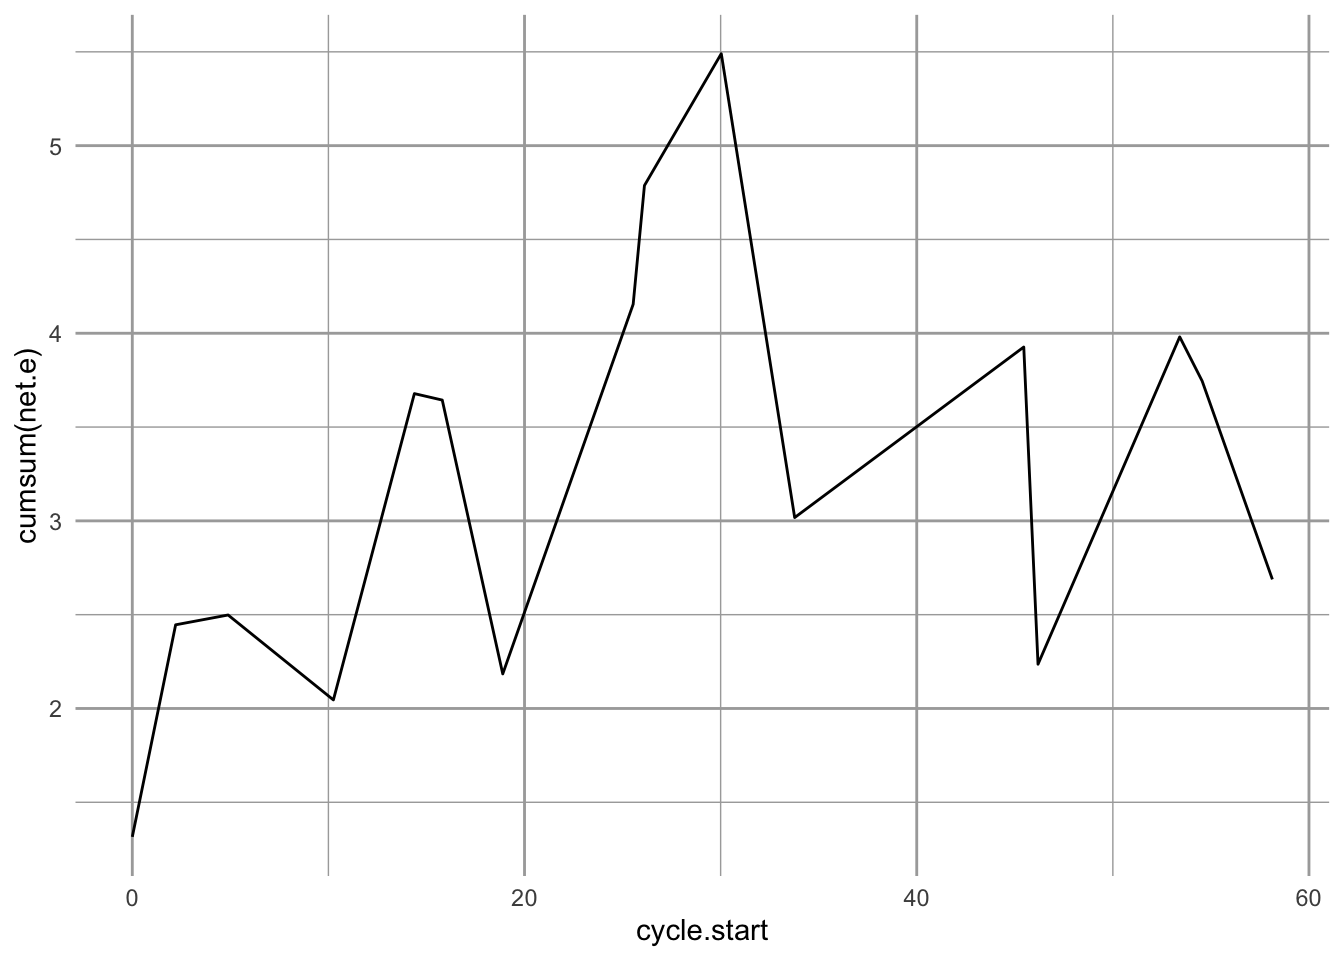
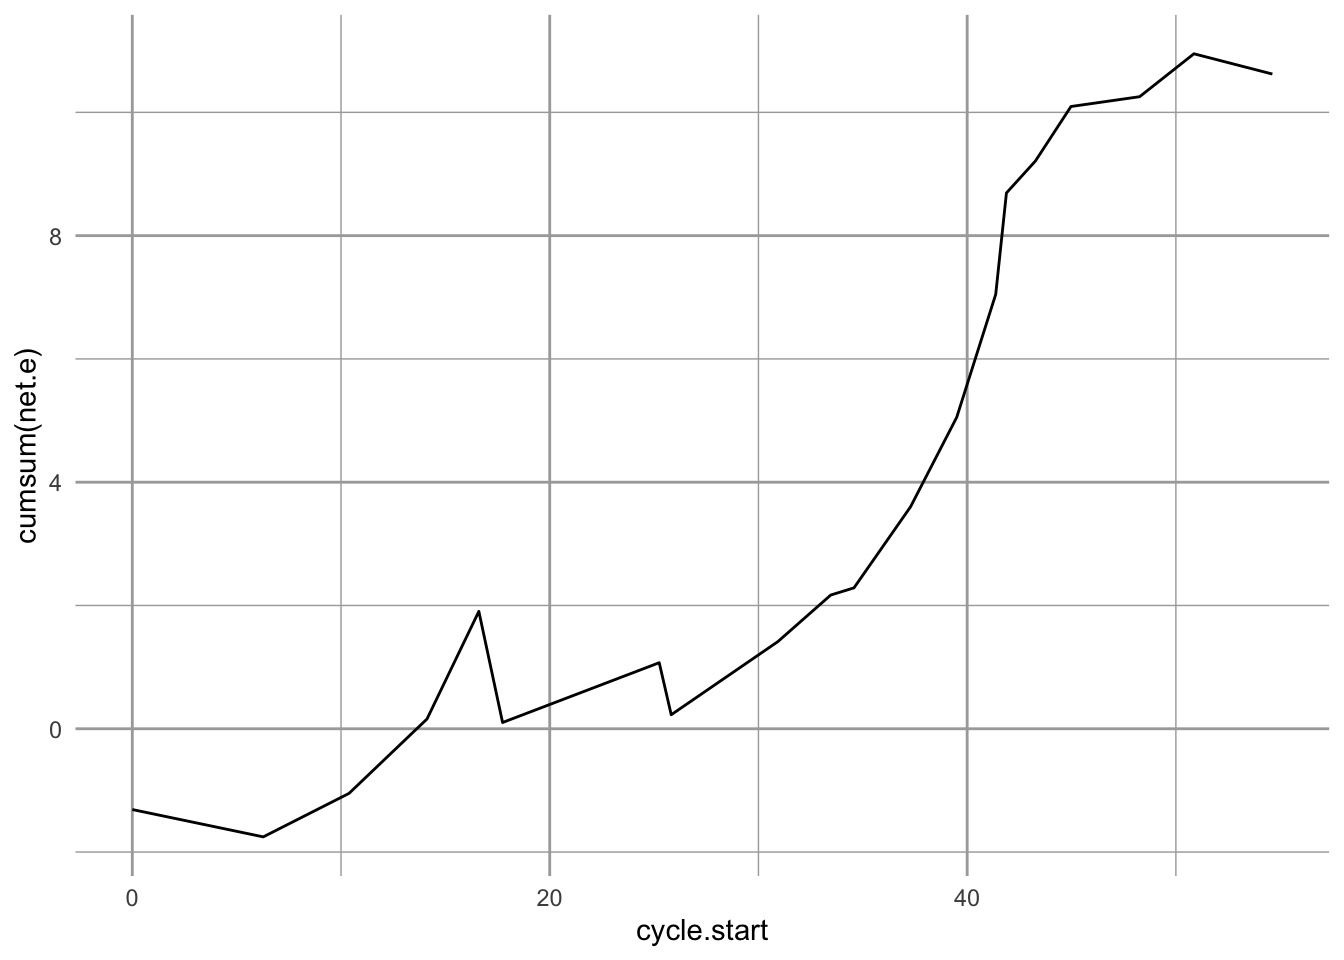
Mon am

diff --git a/docs/index.html b/docs/index.html
@@ -24,7 +24,7 @@
 <meta name="author" content="Hank Stevens" />
 
 
-<meta name="date" content="2020-08-30" />
+<meta name="date" content="2020-08-31" />
 
   <meta name="viewport" content="width=device-width, initial-scale=1" />
   <meta name="apple-mobile-web-app-capable" content="yes" />
@@ -53,6 +53,70 @@
 <script src="libs/accessible-code-block-0.0.1/empty-anchor.js"></script>
 
 
+<style type="text/css">
+code.sourceCode > span { display: inline-block; line-height: 1.25; }
+code.sourceCode > span { color: inherit; text-decoration: inherit; }
+code.sourceCode > span:empty { height: 1.2em; }
+.sourceCode { overflow: visible; }
+code.sourceCode { white-space: pre; position: relative; }
+pre.sourceCode { margin: 0; }
+@media screen {
+div.sourceCode { overflow: auto; }
+}
+@media print {
+code.sourceCode { white-space: pre-wrap; }
+code.sourceCode > span { text-indent: -5em; padding-left: 5em; }
+}
+pre.numberSource code
+  { counter-reset: source-line 0; }
+pre.numberSource code > span
+  { position: relative; left: -4em; counter-increment: source-line; }
+pre.numberSource code > span > a:first-child::before
+  { content: counter(source-line);
+    position: relative; left: -1em; text-align: right; vertical-align: baseline;
+    border: none; display: inline-block;
+    -webkit-touch-callout: none; -webkit-user-select: none;
+    -khtml-user-select: none; -moz-user-select: none;
+    -ms-user-select: none; user-select: none;
+    padding: 0 4px; width: 4em;
+    color: #aaaaaa;
+  }
+pre.numberSource { margin-left: 3em; border-left: 1px solid #aaaaaa;  padding-left: 4px; }
+div.sourceCode
+  {   }
+@media screen {
+code.sourceCode > span > a:first-child::before { text-decoration: underline; }
+}
+code span.al { color: #ff0000; font-weight: bold; } /* Alert */
+code span.an { color: #60a0b0; font-weight: bold; font-style: italic; } /* Annotation */
+code span.at { color: #7d9029; } /* Attribute */
+code span.bn { color: #40a070; } /* BaseN */
+code span.bu { } /* BuiltIn */
+code span.cf { color: #007020; font-weight: bold; } /* ControlFlow */
+code span.ch { color: #4070a0; } /* Char */
+code span.cn { color: #880000; } /* Constant */
+code span.co { color: #60a0b0; font-style: italic; } /* Comment */
+code span.cv { color: #60a0b0; font-weight: bold; font-style: italic; } /* CommentVar */
+code span.do { color: #ba2121; font-style: italic; } /* Documentation */
+code span.dt { color: #902000; } /* DataType */
+code span.dv { color: #40a070; } /* DecVal */
+code span.er { color: #ff0000; font-weight: bold; } /* Error */
+code span.ex { } /* Extension */
+code span.fl { color: #40a070; } /* Float */
+code span.fu { color: #06287e; } /* Function */
+code span.im { } /* Import */
+code span.in { color: #60a0b0; font-weight: bold; font-style: italic; } /* Information */
+code span.kw { color: #007020; font-weight: bold; } /* Keyword */
+code span.op { color: #666666; } /* Operator */
+code span.ot { color: #007020; } /* Other */
+code span.pp { color: #bc7a00; } /* Preprocessor */
+code span.sc { color: #4070a0; } /* SpecialChar */
+code span.ss { color: #bb6688; } /* SpecialString */
+code span.st { color: #4070a0; } /* String */
+code span.va { color: #19177c; } /* Variable */
+code span.vs { color: #4070a0; } /* VerbatimString */
+code span.wa { color: #60a0b0; font-weight: bold; font-style: italic; } /* Warning */
+</style>
 
 </head>
 
@@ -116,16 +180,15 @@
 <li class="chapter" data-level="4.6.1" data-path="DID.html"><a href="DID.html#eigenanalysis"><i class="fa fa-check"></i><b>4.6.1</b> Eigenanalysis</a></li>
 <li class="chapter" data-level="4.6.2" data-path="DID.html"><a href="DID.html#finite-rate-of-increase"><i class="fa fa-check"></i><b>4.6.2</b> Finite rate of increase</a></li>
 <li class="chapter" data-level="4.6.3" data-path="DID.html"><a href="DID.html#stable-stage-distribution"><i class="fa fa-check"></i><b>4.6.3</b> Stable stage distribution</a></li>
-<li class="chapter" data-level="4.6.4" data-path="DID.html"><a href="DID.html#calculating-the-stable-stage-distribution"><i class="fa fa-check"></i><b>4.6.4</b> Calculating the stable stage distribution</a></li>
-<li class="chapter" data-level="4.6.5" data-path="DID.html"><a href="DID.html#reproductive-value"><i class="fa fa-check"></i><b>4.6.5</b> Reproductive value</a></li>
-<li class="chapter" data-level="4.6.6" data-path="DID.html"><a href="DID.html#sensitivity-and-elasticity"><i class="fa fa-check"></i><b>4.6.6</b> Sensitivity and elasticity</a></li>
+<li class="chapter" data-level="4.6.4" data-path="DID.html"><a href="DID.html#reproductive-value"><i class="fa fa-check"></i><b>4.6.4</b> Reproductive value</a></li>
+<li class="chapter" data-level="4.6.5" data-path="DID.html"><a href="DID.html#sensitivity-and-elasticity"><i class="fa fa-check"></i><b>4.6.5</b> Sensitivity and elasticity</a></li>
 </ul></li>
 <li class="chapter" data-level="4.7" data-path="DID.html"><a href="DID.html#integral-projection"><i class="fa fa-check"></i><b>4.7</b> Integral projection</a><ul>
 <li class="chapter" data-level="4.7.1" data-path="DID.html"><a href="DID.html#a-size-based-ipm-of-smooth-coneflower"><i class="fa fa-check"></i><b>4.7.1</b> A size-based IPM of smooth coneflower</a></li>
+<li class="chapter" data-level="4.7.2" data-path="DID.html"><a href="DID.html#population-summaries"><i class="fa fa-check"></i><b>4.7.2</b> Population summaries</a></li>
 </ul></li>
-<li class="chapter" data-level="4.8" data-path="DID.html"><a href="DID.html#population-summaries"><i class="fa fa-check"></i><b>4.8</b> Population summaries</a></li>
-<li class="chapter" data-level="4.9" data-path="DID.html"><a href="DID.html#r-packges-for-demography"><i class="fa fa-check"></i><b>4.9</b> R packges for demography</a></li>
-<li class="chapter" data-level="4.10" data-path="DID.html"><a href="DID.html#exploring-a-real-population"><i class="fa fa-check"></i><b>4.10</b> Exploring a real population</a></li>
+<li class="chapter" data-level="4.8" data-path="DID.html"><a href="DID.html#r-packges-for-demography"><i class="fa fa-check"></i><b>4.8</b> R packges for demography</a></li>
+<li class="chapter" data-level="4.9" data-path="DID.html"><a href="DID.html#exploring-a-real-population"><i class="fa fa-check"></i><b>4.9</b> Exploring a real population</a></li>
 </ul></li>
 <li class="chapter" data-level="5" data-path="references.html"><a href="references.html"><i class="fa fa-check"></i><b>5</b> References</a></li>
 </ul>
@@ -148,7 +211,7 @@
 <div id="header">
 <h1 class="title">Primer of Ecology with R</h1>
 <p class="author"><em>Hank Stevens</em></p>
-<p class="date"><em>2020-08-30</em></p>
+<p class="date"><em>2020-08-31</em></p>
 </div>
 <div id="preface" class="section level1 unnumbered">
 <h1>Preface</h1>

diff --git a/docs/DID.html b/docs/DID.html
@@ -24,7 +24,7 @@
 <meta name="author" content="Hank Stevens" />
 
 
-<meta name="date" content="2020-08-30" />
+<meta name="date" content="2020-08-31" />
 
   <meta name="viewport" content="width=device-width, initial-scale=1" />
   <meta name="apple-mobile-web-app-capable" content="yes" />
@@ -185,10 +185,10 @@ code span.wa { color: #60a0b0; font-weight: bold; font-style: italic; } /* Warni
 </ul></li>
 <li class="chapter" data-level="4.7" data-path="DID.html"><a href="DID.html#integral-projection"><i class="fa fa-check"></i><b>4.7</b> Integral projection</a><ul>
 <li class="chapter" data-level="4.7.1" data-path="DID.html"><a href="DID.html#a-size-based-ipm-of-smooth-coneflower"><i class="fa fa-check"></i><b>4.7.1</b> A size-based IPM of smooth coneflower</a></li>
+<li class="chapter" data-level="4.7.2" data-path="DID.html"><a href="DID.html#population-summaries"><i class="fa fa-check"></i><b>4.7.2</b> Population summaries</a></li>
 </ul></li>
-<li class="chapter" data-level="4.8" data-path="DID.html"><a href="DID.html#population-summaries"><i class="fa fa-check"></i><b>4.8</b> Population summaries</a></li>
-<li class="chapter" data-level="4.9" data-path="DID.html"><a href="DID.html#r-packges-for-demography"><i class="fa fa-check"></i><b>4.9</b> R packges for demography</a></li>
-<li class="chapter" data-level="4.10" data-path="DID.html"><a href="DID.html#exploring-a-real-population"><i class="fa fa-check"></i><b>4.10</b> Exploring a real population</a></li>
+<li class="chapter" data-level="4.8" data-path="DID.html"><a href="DID.html#r-packges-for-demography"><i class="fa fa-check"></i><b>4.8</b> R packges for demography</a></li>
+<li class="chapter" data-level="4.9" data-path="DID.html"><a href="DID.html#exploring-a-real-population"><i class="fa fa-check"></i><b>4.9</b> Exploring a real population</a></li>
 </ul></li>
 <li class="chapter" data-level="5" data-path="references.html"><a href="references.html"><i class="fa fa-check"></i><b>5</b> References</a></li>
 </ul>
@@ -810,9 +810,8 @@ Figure 4.14: The component kernels G, S, and F, that make up the full demographi
 </p>
 </div>
 </div>
-</div>
-<div id="population-summaries" class="section level2">
-<h2><span class="header-section-number">4.8</span> Population summaries</h2>
+<div id="population-summaries" class="section level3">
+<h3><span class="header-section-number">4.7.2</span> Population summaries</h3>
 <p>Anything question that we could answer using matrices, we can answer using kernels.</p>
 <p>We estimate the finite rate of increase, <span class="math inline">\(\lambda\)</span>, the same way we did before.</p>
 <div class="sourceCode" id="cb131"><pre class="sourceCode r"><code class="sourceCode r"><span id="cb131-1"><a href="DID.html#cb131-1"></a>(<span class="dt">lambda=</span><span class="kw">Re</span>(<span class="kw">eigen</span>(K)<span class="op">$</span>values[<span class="dv">1</span>]))</span></code></pre></div>
@@ -843,14 +842,15 @@ Figure 4.15: Descriptions of smooth coneflower demographics.
 </p>
 </div>
 </div>
+</div>
 <div id="r-packges-for-demography" class="section level2">
-<h2><span class="header-section-number">4.9</span> R packges for demography</h2>
+<h2><span class="header-section-number">4.8</span> R packges for demography</h2>
 <p><span class="citation">Caswell (<a href="#ref-Caswell:2001gu" role="doc-biblioref">2001</a>)</span> is a definitive reference text for matrix models. <span class="citation">Ellner and Guckenheimer (<a href="#ref-Ellner:2006qe" role="doc-biblioref">2006</a>)</span> provides an excellent introduction, and I am sure there are many other excellent texts as well.</p>
 <p><span class="citation">Stubben and Milligan (<a href="#ref-Stubben:2007" role="doc-biblioref">2007</a>)</span> and <span class="citation">Stott, Hodgson, and Townley (<a href="#ref-Stott:2018" role="doc-biblioref">2018</a>)</span>, and <span class="citation">de la Cruz (<a href="#ref-delaCruz:2019" role="doc-biblioref">2019</a>)</span> provide R packages for stage-based matrix models with methods that go well beyond this text. In addition, there are several other packages for analyzing life tables and human demography.</p>
 <p><span class="citation">Ellner, Childs, and Rees (<a href="#ref-Ellner:2016aa" role="doc-biblioref">2016</a>)</span> is probably the best source for understanding IPMs. The R package IPMpack <span class="citation">(Metcalf et al. <a href="#ref-Metcalf:2014ab" role="doc-biblioref">2014</a>)</span> is an excellent package to implement and analyze IPMs.</p>
 </div>
 <div id="exploring-a-real-population" class="section level2">
-<h2><span class="header-section-number">4.10</span> Exploring a real population</h2>
+<h2><span class="header-section-number">4.9</span> Exploring a real population</h2>
 <p><span class="citation">Crouse, Crowder, and Caswell (<a href="#ref-Crouse1987" role="doc-biblioref">1987</a>)</span> performed a demographic analysis of an endangered sea turtle species, the loggerhead (<em>Caretta caretta</em>). Management of loggerhead populations seemed essential for their long term survival, and a popular management strategy had been and still is to protect nesting females, eggs, and hatchlings. The ground breaking work by Crouse<a href="#fn28" class="footnote-ref" id="fnref28"><sup>28</sup></a> and her colleagues compiled data to create a stage-based projection matrix to analyze quantitatively which stages are most important and least important in influencing long-term growth rate. This work led to US Federal laws requiring that US shrimp fishermen use nets that include Turtle Excluder Devices (TEDs, <a href="https://www.fisheries.noaa.gov/southeast/bycatch/turtle-excluder-device-regulations" class="uri">https://www.fisheries.noaa.gov/southeast/bycatch/turtle-excluder-device-regulations</a> ). Crouse et al. determined a transition matrix, <strong>A</strong>, for their loggerhead population:</p>
 <p><span class="math display">\[\begin{array}{c}
 H\\J_s\\J_l \\sub \\ B_1 \\B_2 \\ M

diff --git a/docs/oft.html b/docs/oft.html
@@ -24,7 +24,7 @@
 <meta name="author" content="Hank Stevens" />
 
 
-<meta name="date" content="2020-08-30" />
+<meta name="date" content="2020-08-31" />
 
   <meta name="viewport" content="width=device-width, initial-scale=1" />
   <meta name="apple-mobile-web-app-capable" content="yes" />
@@ -185,10 +185,10 @@ code span.wa { color: #60a0b0; font-weight: bold; font-style: italic; } /* Warni
 </ul></li>
 <li class="chapter" data-level="4.7" data-path="DID.html"><a href="DID.html#integral-projection"><i class="fa fa-check"></i><b>4.7</b> Integral projection</a><ul>
 <li class="chapter" data-level="4.7.1" data-path="DID.html"><a href="DID.html#a-size-based-ipm-of-smooth-coneflower"><i class="fa fa-check"></i><b>4.7.1</b> A size-based IPM of smooth coneflower</a></li>
+<li class="chapter" data-level="4.7.2" data-path="DID.html"><a href="DID.html#population-summaries"><i class="fa fa-check"></i><b>4.7.2</b> Population summaries</a></li>
 </ul></li>
-<li class="chapter" data-level="4.8" data-path="DID.html"><a href="DID.html#population-summaries"><i class="fa fa-check"></i><b>4.8</b> Population summaries</a></li>
-<li class="chapter" data-level="4.9" data-path="DID.html"><a href="DID.html#r-packges-for-demography"><i class="fa fa-check"></i><b>4.9</b> R packges for demography</a></li>
-<li class="chapter" data-level="4.10" data-path="DID.html"><a href="DID.html#exploring-a-real-population"><i class="fa fa-check"></i><b>4.10</b> Exploring a real population</a></li>
+<li class="chapter" data-level="4.8" data-path="DID.html"><a href="DID.html#r-packges-for-demography"><i class="fa fa-check"></i><b>4.8</b> R packges for demography</a></li>
+<li class="chapter" data-level="4.9" data-path="DID.html"><a href="DID.html#exploring-a-real-population"><i class="fa fa-check"></i><b>4.9</b> Exploring a real population</a></li>
 </ul></li>
 <li class="chapter" data-level="5" data-path="references.html"><a href="references.html"><i class="fa fa-check"></i><b>5</b> References</a></li>
 </ul>
@@ -438,12 +438,12 @@ Figure 2.5: Energy gain vs. time: The origin is when the forager enters the pat
 <div class="sourceCode" id="cb10"><pre class="sourceCode r"><code class="sourceCode r"><span id="cb10-1"><a href="oft.html#cb10-1"></a>myOut &lt;-<span class="st"> </span><span class="kw">optimal.forager</span>(<span class="dt">Total=</span><span class="dv">60</span>)</span>
 <span id="cb10-2"><a href="oft.html#cb10-2"></a><span class="kw">str</span>(myOut)</span></code></pre></div>
 <pre><code>## List of 5
-##  $ N     : num 16
-##  $ G     : num 2.69
-##  $ Tt    : num 63.8
-##  $ series:&#39;data.frame&#39;:	16 obs. of  2 variables:
-##   ..$ net.e      : num [1:16] 1.3156 1.1303 0.0523 -0.4527 1.6326 ...
-##   ..$ cycle.start: num [1:16] 0 2.21 4.89 10.25 14.39 ...
+##  $ N     : num 20
+##  $ G     : num 10.6
+##  $ Tt    : num 60.9
+##  $ series:&#39;data.frame&#39;:	20 obs. of  2 variables:
+##   ..$ net.e      : num [1:20] -1.31 -0.444 0.706 1.207 1.745 ...
+##   ..$ cycle.start: num [1:20] 0 6.28 10.38 14.12 16.6 ...
 ##  $ params:List of 7
 ##   ..$ e     : num [1:2] 2 1
 ##   ..$ h     : num [1:2] 0.5 0.5

diff --git a/docs/expo.html b/docs/expo.html
@@ -24,7 +24,7 @@
 <meta name="author" content="Hank Stevens" />
 
 
-<meta name="date" content="2020-08-30" />
+<meta name="date" content="2020-08-31" />
 
   <meta name="viewport" content="width=device-width, initial-scale=1" />
   <meta name="apple-mobile-web-app-capable" content="yes" />
@@ -185,10 +185,10 @@ code span.wa { color: #60a0b0; font-weight: bold; font-style: italic; } /* Warni
 </ul></li>
 <li class="chapter" data-level="4.7" data-path="DID.html"><a href="DID.html#integral-projection"><i class="fa fa-check"></i><b>4.7</b> Integral projection</a><ul>
 <li class="chapter" data-level="4.7.1" data-path="DID.html"><a href="DID.html#a-size-based-ipm-of-smooth-coneflower"><i class="fa fa-check"></i><b>4.7.1</b> A size-based IPM of smooth coneflower</a></li>
+<li class="chapter" data-level="4.7.2" data-path="DID.html"><a href="DID.html#population-summaries"><i class="fa fa-check"></i><b>4.7.2</b> Population summaries</a></li>
 </ul></li>
-<li class="chapter" data-level="4.8" data-path="DID.html"><a href="DID.html#population-summaries"><i class="fa fa-check"></i><b>4.8</b> Population summaries</a></li>
-<li class="chapter" data-level="4.9" data-path="DID.html"><a href="DID.html#r-packges-for-demography"><i class="fa fa-check"></i><b>4.9</b> R packges for demography</a></li>
-<li class="chapter" data-level="4.10" data-path="DID.html"><a href="DID.html#exploring-a-real-population"><i class="fa fa-check"></i><b>4.10</b> Exploring a real population</a></li>
+<li class="chapter" data-level="4.8" data-path="DID.html"><a href="DID.html#r-packges-for-demography"><i class="fa fa-check"></i><b>4.8</b> R packges for demography</a></li>
+<li class="chapter" data-level="4.9" data-path="DID.html"><a href="DID.html#exploring-a-real-population"><i class="fa fa-check"></i><b>4.9</b> Exploring a real population</a></li>
 </ul></li>
 <li class="chapter" data-level="5" data-path="references.html"><a href="references.html"><i class="fa fa-check"></i><b>5</b> References</a></li>
 </ul>
@@ -645,7 +645,7 @@ Figure 3.10: Using ggplot() to plot one variable against vs. a single variable,
 <span id="cb67-7"><a href="expo.html#cb67-7"></a>                    )</span>
 <span id="cb67-8"><a href="expo.html#cb67-8"></a>            )</span></code></pre></div>
 <pre><code>##    user  system elapsed 
-##   0.135   0.010   0.149</code></pre>
+##   0.142   0.013   0.171</code></pre>
 <p>This tells me how long it took to complete 10,000 simulations. We also check the dimensions of the output, and they make sense.</p>
 <div class="sourceCode" id="cb69"><pre class="sourceCode r"><code class="sourceCode r"><span id="cb69-1"><a href="expo.html#cb69-1"></a><span class="kw">dim</span>(outmat)</span></code></pre></div>
 <pre><code>## [1]    51 10000</code></pre>

diff --git a/docs/references.html b/docs/references.html
@@ -24,7 +24,7 @@
 <meta name="author" content="Hank Stevens" />
 
 
-<meta name="date" content="2020-08-30" />
+<meta name="date" content="2020-08-31" />
 
   <meta name="viewport" content="width=device-width, initial-scale=1" />
   <meta name="apple-mobile-web-app-capable" content="yes" />
@@ -185,10 +185,10 @@ code span.wa { color: #60a0b0; font-weight: bold; font-style: italic; } /* Warni
 </ul></li>
 <li class="chapter" data-level="4.7" data-path="DID.html"><a href="DID.html#integral-projection"><i class="fa fa-check"></i><b>4.7</b> Integral projection</a><ul>
 <li class="chapter" data-level="4.7.1" data-path="DID.html"><a href="DID.html#a-size-based-ipm-of-smooth-coneflower"><i class="fa fa-check"></i><b>4.7.1</b> A size-based IPM of smooth coneflower</a></li>
+<li class="chapter" data-level="4.7.2" data-path="DID.html"><a href="DID.html#population-summaries"><i class="fa fa-check"></i><b>4.7.2</b> Population summaries</a></li>
 </ul></li>
-<li class="chapter" data-level="4.8" data-path="DID.html"><a href="DID.html#population-summaries"><i class="fa fa-check"></i><b>4.8</b> Population summaries</a></li>
-<li class="chapter" data-level="4.9" data-path="DID.html"><a href="DID.html#r-packges-for-demography"><i class="fa fa-check"></i><b>4.9</b> R packges for demography</a></li>
-<li class="chapter" data-level="4.10" data-path="DID.html"><a href="DID.html#exploring-a-real-population"><i class="fa fa-check"></i><b>4.10</b> Exploring a real population</a></li>
+<li class="chapter" data-level="4.8" data-path="DID.html"><a href="DID.html#r-packges-for-demography"><i class="fa fa-check"></i><b>4.8</b> R packges for demography</a></li>
+<li class="chapter" data-level="4.9" data-path="DID.html"><a href="DID.html#exploring-a-real-population"><i class="fa fa-check"></i><b>4.9</b> Exploring a real population</a></li>
 </ul></li>
 <li class="chapter" data-level="5" data-path="references.html"><a href="references.html"><i class="fa fa-check"></i><b>5</b> References</a></li>
 </ul>

diff --git a/docs/theory.html b/docs/theory.html
@@ -24,7 +24,7 @@
 <meta name="author" content="Hank Stevens" />
 
 
-<meta name="date" content="2020-08-30" />
+<meta name="date" content="2020-08-31" />
 
   <meta name="viewport" content="width=device-width, initial-scale=1" />
   <meta name="apple-mobile-web-app-capable" content="yes" />
@@ -185,10 +185,10 @@ code span.wa { color: #60a0b0; font-weight: bold; font-style: italic; } /* Warni
 </ul></li>
 <li class="chapter" data-level="4.7" data-path="DID.html"><a href="DID.html#integral-projection"><i class="fa fa-check"></i><b>4.7</b> Integral projection</a><ul>
 <li class="chapter" data-level="4.7.1" data-path="DID.html"><a href="DID.html#a-size-based-ipm-of-smooth-coneflower"><i class="fa fa-check"></i><b>4.7.1</b> A size-based IPM of smooth coneflower</a></li>
+<li class="chapter" data-level="4.7.2" data-path="DID.html"><a href="DID.html#population-summaries"><i class="fa fa-check"></i><b>4.7.2</b> Population summaries</a></li>
 </ul></li>
-<li class="chapter" data-level="4.8" data-path="DID.html"><a href="DID.html#population-summaries"><i class="fa fa-check"></i><b>4.8</b> Population summaries</a></li>
-<li class="chapter" data-level="4.9" data-path="DID.html"><a href="DID.html#r-packges-for-demography"><i class="fa fa-check"></i><b>4.9</b> R packges for demography</a></li>
-<li class="chapter" data-level="4.10" data-path="DID.html"><a href="DID.html#exploring-a-real-population"><i class="fa fa-check"></i><b>4.10</b> Exploring a real population</a></li>
+<li class="chapter" data-level="4.8" data-path="DID.html"><a href="DID.html#r-packges-for-demography"><i class="fa fa-check"></i><b>4.8</b> R packges for demography</a></li>
+<li class="chapter" data-level="4.9" data-path="DID.html"><a href="DID.html#exploring-a-real-population"><i class="fa fa-check"></i><b>4.9</b> Exploring a real population</a></li>
 </ul></li>
 <li class="chapter" data-level="5" data-path="references.html"><a href="references.html"><i class="fa fa-check"></i><b>5</b> References</a></li>
 </ul>
